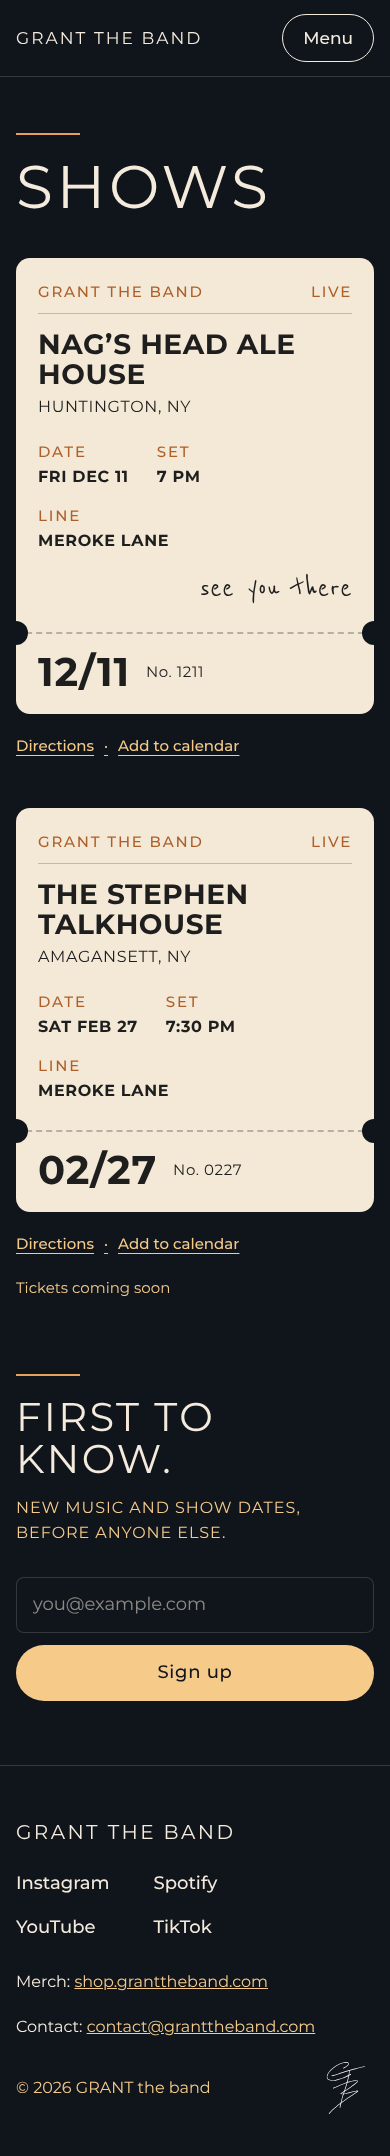
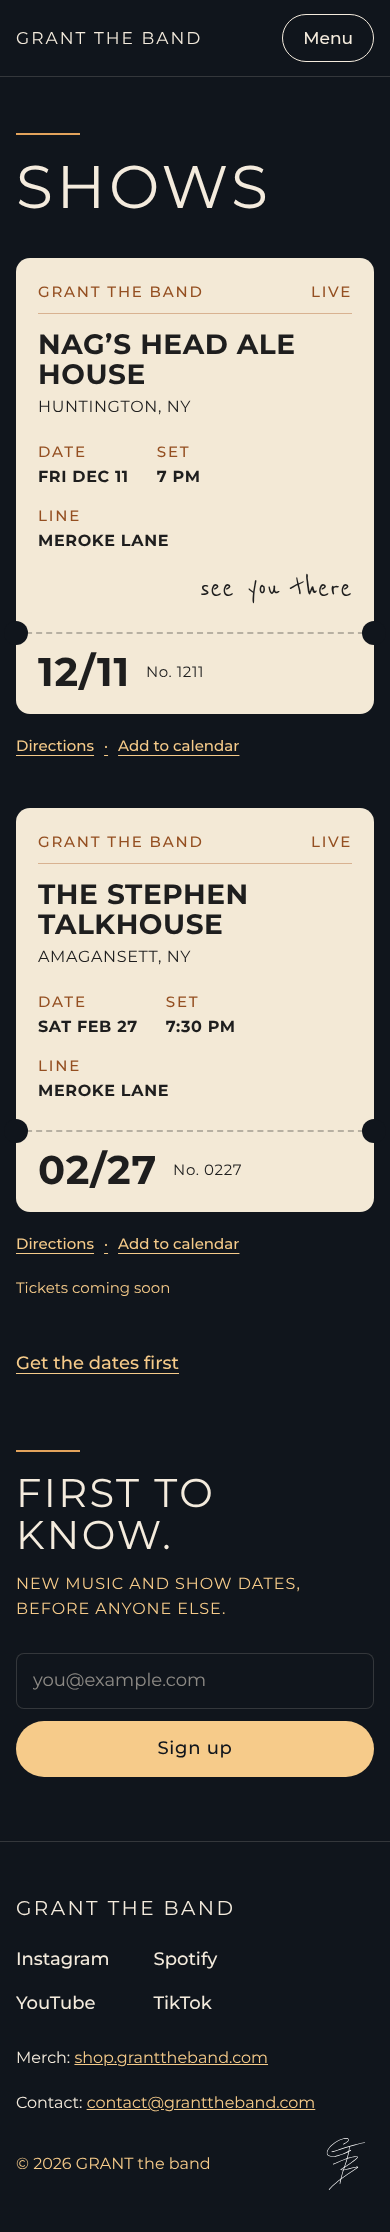
UX review: one primary action, shorter phone home, AA ticket labels, signup links
- Hero: Shows is the primary button at every size; Listen is secondary,
  from 600px up (tablets included). Play pill unchanged.
- Home shows only the next show's ticket (and its MusicEvent), with
  "All dates (N)" (hidden at N = 1) and "Get the dates first".
- /shows: "Get the dates first" link under the tickets.
- Phone hero scrim ~94% night behind the text block, 0 by mid-frame, so
  the neon sign no longer reads through the wordmark.
- Ticket labels #944F21 (5.13:1 on the paper).
- /now card: centered play button, "Watch on Instagram" link (new tab).
- 44px tap targets for the header/footer wordmark and "Read the feature".
- screenshots.cjs: SCREENSHOT_SIZES / SCREENSHOT_PAGES for review sizes.

Claude-Session: https://claude.ai/code/session_01W6jjmem6fid2ThtCrqmyVk

diff --git a/src/styles/global.css b/src/styles/global.css
@@ -5,6 +5,7 @@
   --gold: #f6cb8a; /* labels, subtext, links, primary buttons */
   --amber: #e3a35c; /* thin rules only */
   --copper: #ae5f2a; /* ticket/print accents only */
+  --ticket-label: #944f21; /* site ticket labels: copper darkened to 5.13:1 on the paper */
 
   /* Ticket paper and ink (shows only). */
   --paper: #f3e9d6;
@@ -15,7 +16,7 @@
   --lift: rgb(244 235 221 / 0.05); /* neutral night block for missing photos */
   /* The one gradient, behind the hero text only, so the middle of the frame (the jump) stays
      clear. Phones: from the bottom up. Desktop: from the bottom-left corner. */
-  --scrim: linear-gradient(to top, rgb(16 21 28 / 0.96) 0%, rgb(16 21 28 / 0.93) 13%, rgb(16 21 28 / 0.75) 30%, rgb(16 21 28 / 0) 48%);
+  --scrim: linear-gradient(to top, rgb(16 21 28 / 0.96) 0%, rgb(16 21 28 / 0.94) 32%, rgb(16 21 28 / 0.85) 36%, rgb(16 21 28 / 0.4) 43%, rgb(16 21 28 / 0) 50%);
   --scrim-desktop: radial-gradient(ellipse 80% 95% at 0% 100%, rgb(16 21 28 / 0.85) 0%, rgb(16 21 28 / 0.75) 50%, rgb(16 21 28 / 0) 100%);
 
   /* Montserrat stands in for the Meroke Lane cover font. Swap here when confirmed. */

diff --git a/CLAUDE.md b/CLAUDE.md
@@ -70,6 +70,8 @@ The masters (Canva folder "GRANT the band - Social Templates"): 4:5 and 9:16 Sho
 --copper: #AE5F2A   ticket/print accents only
 ```
 
+Site ticket labels (GRANT THE BAND / LIVE / DATE / SET / LINE) use `--ticket-label` #944F21, copper darkened to 5.13:1 on the ticket paper (AA). #AE5F2A (3.9:1) stays for print (EPK, social templates).
+
 Ticket only: paper `#F3E9D6`, ink `#1E1E1E`.
 No browns, no other surfaces. Hairline dividers are cream at low opacity. Text contrast 4.5:1 or better.
 
@@ -85,7 +87,7 @@ No browns, no other surfaces. Hairline dividers are cream at low opacity. Text c
 
 ### Layout
 
-- Photo-first. Real photos full bleed with a night gradient scrim behind any text, and only behind the text: the middle of the hero frame (the jump) stays clear and bright. Hero scrim on phones runs from the bottom up (`--scrim`), on desktop from the bottom-left corner (`--scrim-desktop`). Tuned so over every frame of the loop the hero logo stays above 3:1 and the gold lines above 4.5:1. That is the one gradient allowed (OG cards use the same night scrim).
+- Photo-first. Real photos full bleed with a night gradient scrim behind any text, and only behind the text: the middle of the hero frame (the jump) stays clear and bright. Hero scrim on phones runs from the bottom up (`--scrim`: ~94% night behind the whole text block, so the neon sign at the stage front doesn't read through the wordmark, fading to 0 by mid-frame), on desktop from the bottom-left corner (`--scrim-desktop`). Tuned so over every frame of the loop the hero logo stays above 3:1 and the gold lines above 4.5:1. That is the one gradient allowed (OG cards use the same night scrim).
 - No empty colored boxes as the main visual. Until photos land, use a single neutral night block, not dashed boxes. Sections without their photo yet (the photo band) stay hidden.
 - Buttons: exactly two styles. Primary = gold fill, night text. Secondary = 1px cream outline. No gold-outline variant (placeholder buttons use the primary style).
 - Section spacing: 96px desktop / 64px phone between sections, nothing taller.
@@ -149,13 +151,13 @@ Use this copy as written. Typographic apostrophes and quotes. Never use em dashe
    - Phones: the content block is anchored to the bottom, left-aligned, logo just above the buttons. On tall phones (9:16 or narrower) the media layer is lifted 10% (ceiling only) so the jump clears the text.
    - The logo is the H1.
    - Below: gold label "MEROKE LANE", then "OUT EVERYWHERE".
-   - Buttons: "Listen" (to Meroke Lane on Spotify) and "Shows" (to `/shows`), under the label. Phones (<900px): no Listen in the hero; "Shows" is the one primary (gold) button. Desktop keeps Listen + Shows.
+   - Buttons: "Shows" (to `/shows`) is the one primary (gold) button at every size, then "Listen" (to Meroke Lane on Spotify) as secondary (outline). Phones (<600px): no Listen in the hero (Shows + the song pill). Tablets (upright iPads included) and desktop show Shows + Listen.
    - The loop downloads one file only: `hero-phone.mp4` on portrait screens, `hero-desktop.mp4` otherwise. Reduced motion, Save-Data and `prefers-reduced-data` get the poster and no video.
    - Song button: its own row under Listen / Shows (a 44px pill, 16px label, cream outline on a translucent night fill; lighter than the page buttons), reading ▶ Play “Man on a Train” (the ▶ is an inline SVG, not an emoji). On tap it plays `public/audio/hero-song.mp3` (`preload="none"`: nothing is fetched until the tap) over the muted loop, which keeps playing. While it plays the button reads "Pause". When the excerpt ends it becomes a link, "Hear the full song on Spotify", to the track (`links.manOnATrainSpotify`, https://open.spotify.com/track/3Qhvz4YM1P0mKKuur6SoIG), opening in a new tab.
    - The song button renders only once `hero-song.mp3` exists. Until then previews show a placeholder and production shows nothing. No video swap: the hero never replaces the loop.
    - Short phones (max-height 720px) get tighter vertical spacing in the hero text so the extra row doesn't push the wordmark into the jump.
    - No tagline, no location line, no sub paragraph.
-2. Next stop (only when there are upcoming dates): title "NEXT STOP.", one ticket per show, link to `/shows`.
+2. Next stop (only when there are upcoming dates): title "NEXT STOP.", only the next show's ticket (and only its MusicEvent JSON-LD), then quiet gold text links: "All dates (N)" to `/shows` (N = upcoming shows; hidden when N = 1) and "Get the dates first" to `#newsletter` (smooth scroll).
 3. Music (`#music`): cover art, title "MEROKE LANE" (heading only, no gold line), the Spotify player for the EP (`links.merokeLaneEmbed`, dark theme, 352px tall, full width of the text column, title "Listen to Meroke Lane on Spotify", no autoplay), one gold primary "Listen" button (the Spotify EP), then one row of small text links: Apple Music · YouTube. Text block vertically centered against the cover art.
    - The player is injected only when the section is within ~400px of the viewport (IntersectionObserver), with `loading="lazy"`, after a no-cors check that Spotify is reachable. Its 352px is reserved so nothing shifts. Hero and first paint load nothing from Spotify.
    - Fallback (JS off, Spotify blocked or not loaded in 10s): the numbered tracklist in Spotify order (Spotify is the source of truth): 1. “Meroke” 2. “Horizon” 3. “Peace of Mind” 4. “Waking Up” 5. “Man on a Train”.
@@ -171,7 +173,7 @@ Not on home: venue list, press quote, booking teaser. Those live on `/book`.
 
 ## /shows
 
-- H1 "Shows". One ticket per upcoming show from shows.json.
+- H1 "Shows". One ticket per upcoming show from shows.json, then a quiet gold "Get the dates first" link to the signup on the page (`#newsletter`).
 - Empty: "No dates announced." + inline signup "Get them first."
 
 ## /book copy
@@ -201,7 +203,7 @@ Not on home: venue list, press quote, booking teaser. Those live on `/book`.
 
 ## /now
 
-Single phone-width column: a visually hidden `<h1>GRANT the band</h1>`, wordmark, gold label "MEROKE LANE · OUT EVERYWHERE", top card from now.json ("The one you just watched"; poster in a 4:5 frame, taller posters cropped from 25% down so the jump stays in and the stage floor drops out; omitted on production while now.json is empty), next show row, buttons "Get show dates" (primary), "Listen to Meroke Lane" (Spotify EP), "Merch" (`shopUrl`, with UTM), "Watch us live", "Book us". Footer "Contact: contact@granttheband.com" and "granttheband.com". Meta description: "GRANT the band. The latest clip, the next show, and where to listen." No "Long Island" and no "Better in the room" on /now. Add UTM params to outbound links (utm_source=instagram&utm_medium=bio).
+Single phone-width column: a visually hidden `<h1>GRANT the band</h1>`, wordmark, gold label "MEROKE LANE · OUT EVERYWHERE", top card from now.json ("The one you just watched"; a centered gold play button on the poster, same style as the Live clips; under the title a gold "Watch on Instagram" text link, same URL, new tab; poster in a 4:5 frame, taller posters cropped from 25% down so the jump stays in and the stage floor drops out; omitted on production while now.json is empty), next show row, buttons "Get show dates" (primary), "Listen to Meroke Lane" (Spotify EP), "Merch" (`shopUrl`, with UTM), "Watch us live", "Book us". Footer "Contact: contact@granttheband.com" and "granttheband.com". Meta description: "GRANT the band. The latest clip, the next show, and where to listen." No "Long Island" and no "Better in the room" on /now. Add UTM params to outbound links (utm_source=instagram&utm_medium=bio).
 
 ## Links
 
@@ -272,7 +274,8 @@ On `CONTEXT === "production"` nothing unfinished renders: no [BRACKETED] text, n
 
 ## Ongoing maintenance
 
-- After every change on a PR branch: `npm run build:preview && npm run screenshots`. That writes full-page Playwright (headless Chromium) screenshots of `/`, `/book`, `/now`, `/shows` and `/404` at 390x844, 1312x634 (laptop) and 1440x900 to `screenshots/` (`<page>-<width>.png`: home, book, now, shows, 404 × 390, 1312, 1440). Build with `CONTEXT=deploy-preview` so the sample tickets show, as on the preview. Commit them with the change and list the file names in a PR comment. The script fails on horizontal overflow. If a headless browser can't run in the environment, say so to Noah instead of skipping.
+- Tap targets: every link is at least 44px tall. The header and footer wordmark links and /book's "Read the feature" get it from padding (offset by negative margin), so the type and the layout don't move.
+- After every change on a PR branch: `npm run build:preview && npm run screenshots`. For other sizes or pages: `SCREENSHOT_SIZES=393x852,1194x834 SCREENSHOT_PAGES=home,now npm run screenshots`. That writes full-page Playwright (headless Chromium) screenshots of `/`, `/book`, `/now`, `/shows` and `/404` at 390x844, 1312x634 (laptop) and 1440x900 to `screenshots/` (`<page>-<width>.png`: home, book, now, shows, 404 × 390, 1312, 1440). Build with `CONTEXT=deploy-preview` so the sample tickets show, as on the preview. Commit them with the change and list the file names in a PR comment. The script fails on horizontal overflow. If a headless browser can't run in the environment, say so to Noah instead of skipping.
 
 - New show: Noah says "add 12/5 Talkhouse 8pm". Edit shows.json on a branch, open a PR, merge after Noah approves the preview.
 - Weekly: update now.json to the latest post.
